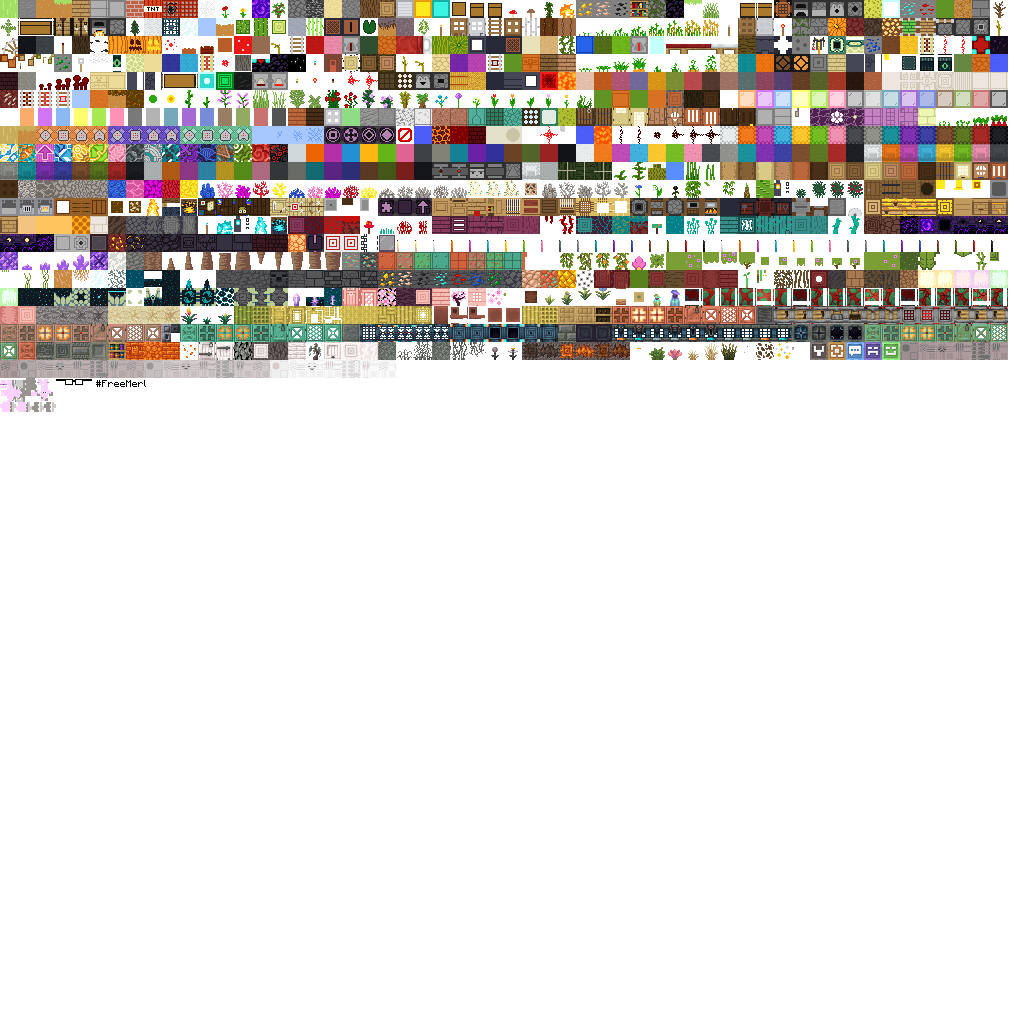
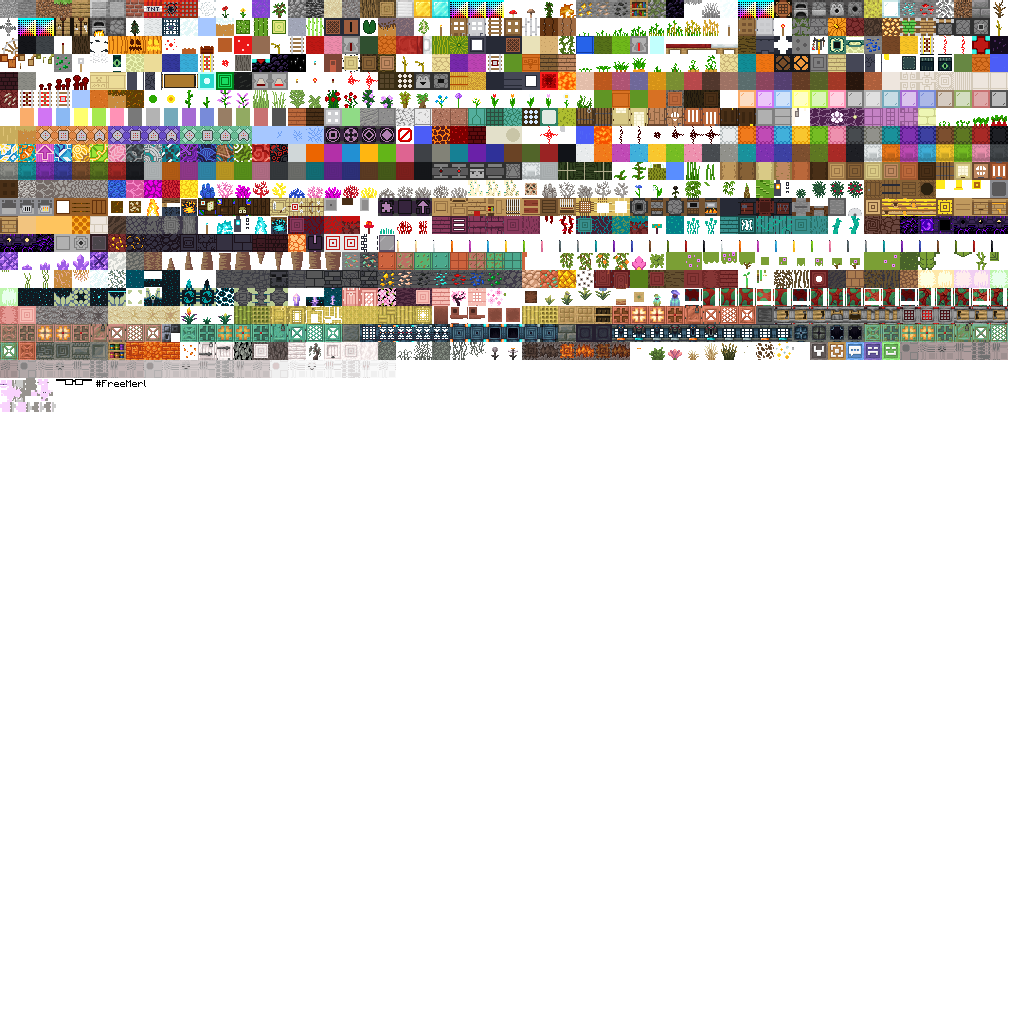
generation script

diff --git a/generate.js b/generate.js
@@ -1,0 +1,67 @@
+import fs from "fs"
+import path from "path"
+import { Canvas, loadImage } from "skia-canvas"
+
+const sourceDir = "C:/Users/ewanh/AppData/Roaming/.minecraft/resourcepacks/1.21.10/assets/minecraft/textures/block"
+const mappingPath = "./mapping.json"
+const basePath = "./base.png"
+const outPath = "./test.png"
+
+const SLOT = 18
+const INNER = 16
+const BORDER = 1
+
+const names = JSON.parse(await fs.promises.readFile(mappingPath, "utf8"))
+const baseImg = await loadImage(basePath)
+
+const canvas = new Canvas(baseImg.width, baseImg.height)
+const ctx = canvas.getContext("2d")
+
+ctx.drawImage(baseImg, 0, 0)
+
+const cols = Math.floor(baseImg.width / SLOT)
+
+let x = 0
+let y = 0
+
+for (const name of names) {
+  const img = await loadImage(path.join(sourceDir, name + ".png"))
+
+  const dx = x * SLOT
+  const dy = y * SLOT
+
+  ctx.clearRect(dx, dy, SLOT, SLOT)
+
+  const srcW = Math.min(img.width, INNER)
+  const srcH = Math.min(img.height, INNER)
+
+  ctx.drawImage(
+    img,
+    0,
+    0,
+    srcW,
+    srcH,
+    dx + BORDER,
+    dy + BORDER,
+    srcW,
+    srcH
+  )
+
+  ctx.drawImage(img, 0, 0, 1, srcH, dx, dy + BORDER, 1, srcH)
+  ctx.drawImage(img, srcW - 1, 0, 1, srcH, dx + BORDER + srcW, dy + BORDER, 1, srcH)
+  ctx.drawImage(img, 0, 0, srcW, 1, dx + BORDER, dy, srcW, 1)
+  ctx.drawImage(img, 0, srcH - 1, srcW, 1, dx + BORDER, dy + BORDER + srcH, srcW, 1)
+
+  ctx.drawImage(img, 0, 0, 1, 1, dx, dy, 1, 1)
+  ctx.drawImage(img, srcW - 1, 0, 1, 1, dx + BORDER + srcW, dy, 1, 1)
+  ctx.drawImage(img, 0, srcH - 1, 1, 1, dx, dy + BORDER + srcH, 1, 1)
+  ctx.drawImage(img, srcW - 1, srcH - 1, 1, 1, dx + BORDER + srcW, dy + BORDER + srcH, 1, 1)
+
+  x++
+  if (x >= cols) {
+    x = 0
+    y++
+  }
+}
+
+await canvas.toFile(outPath)
